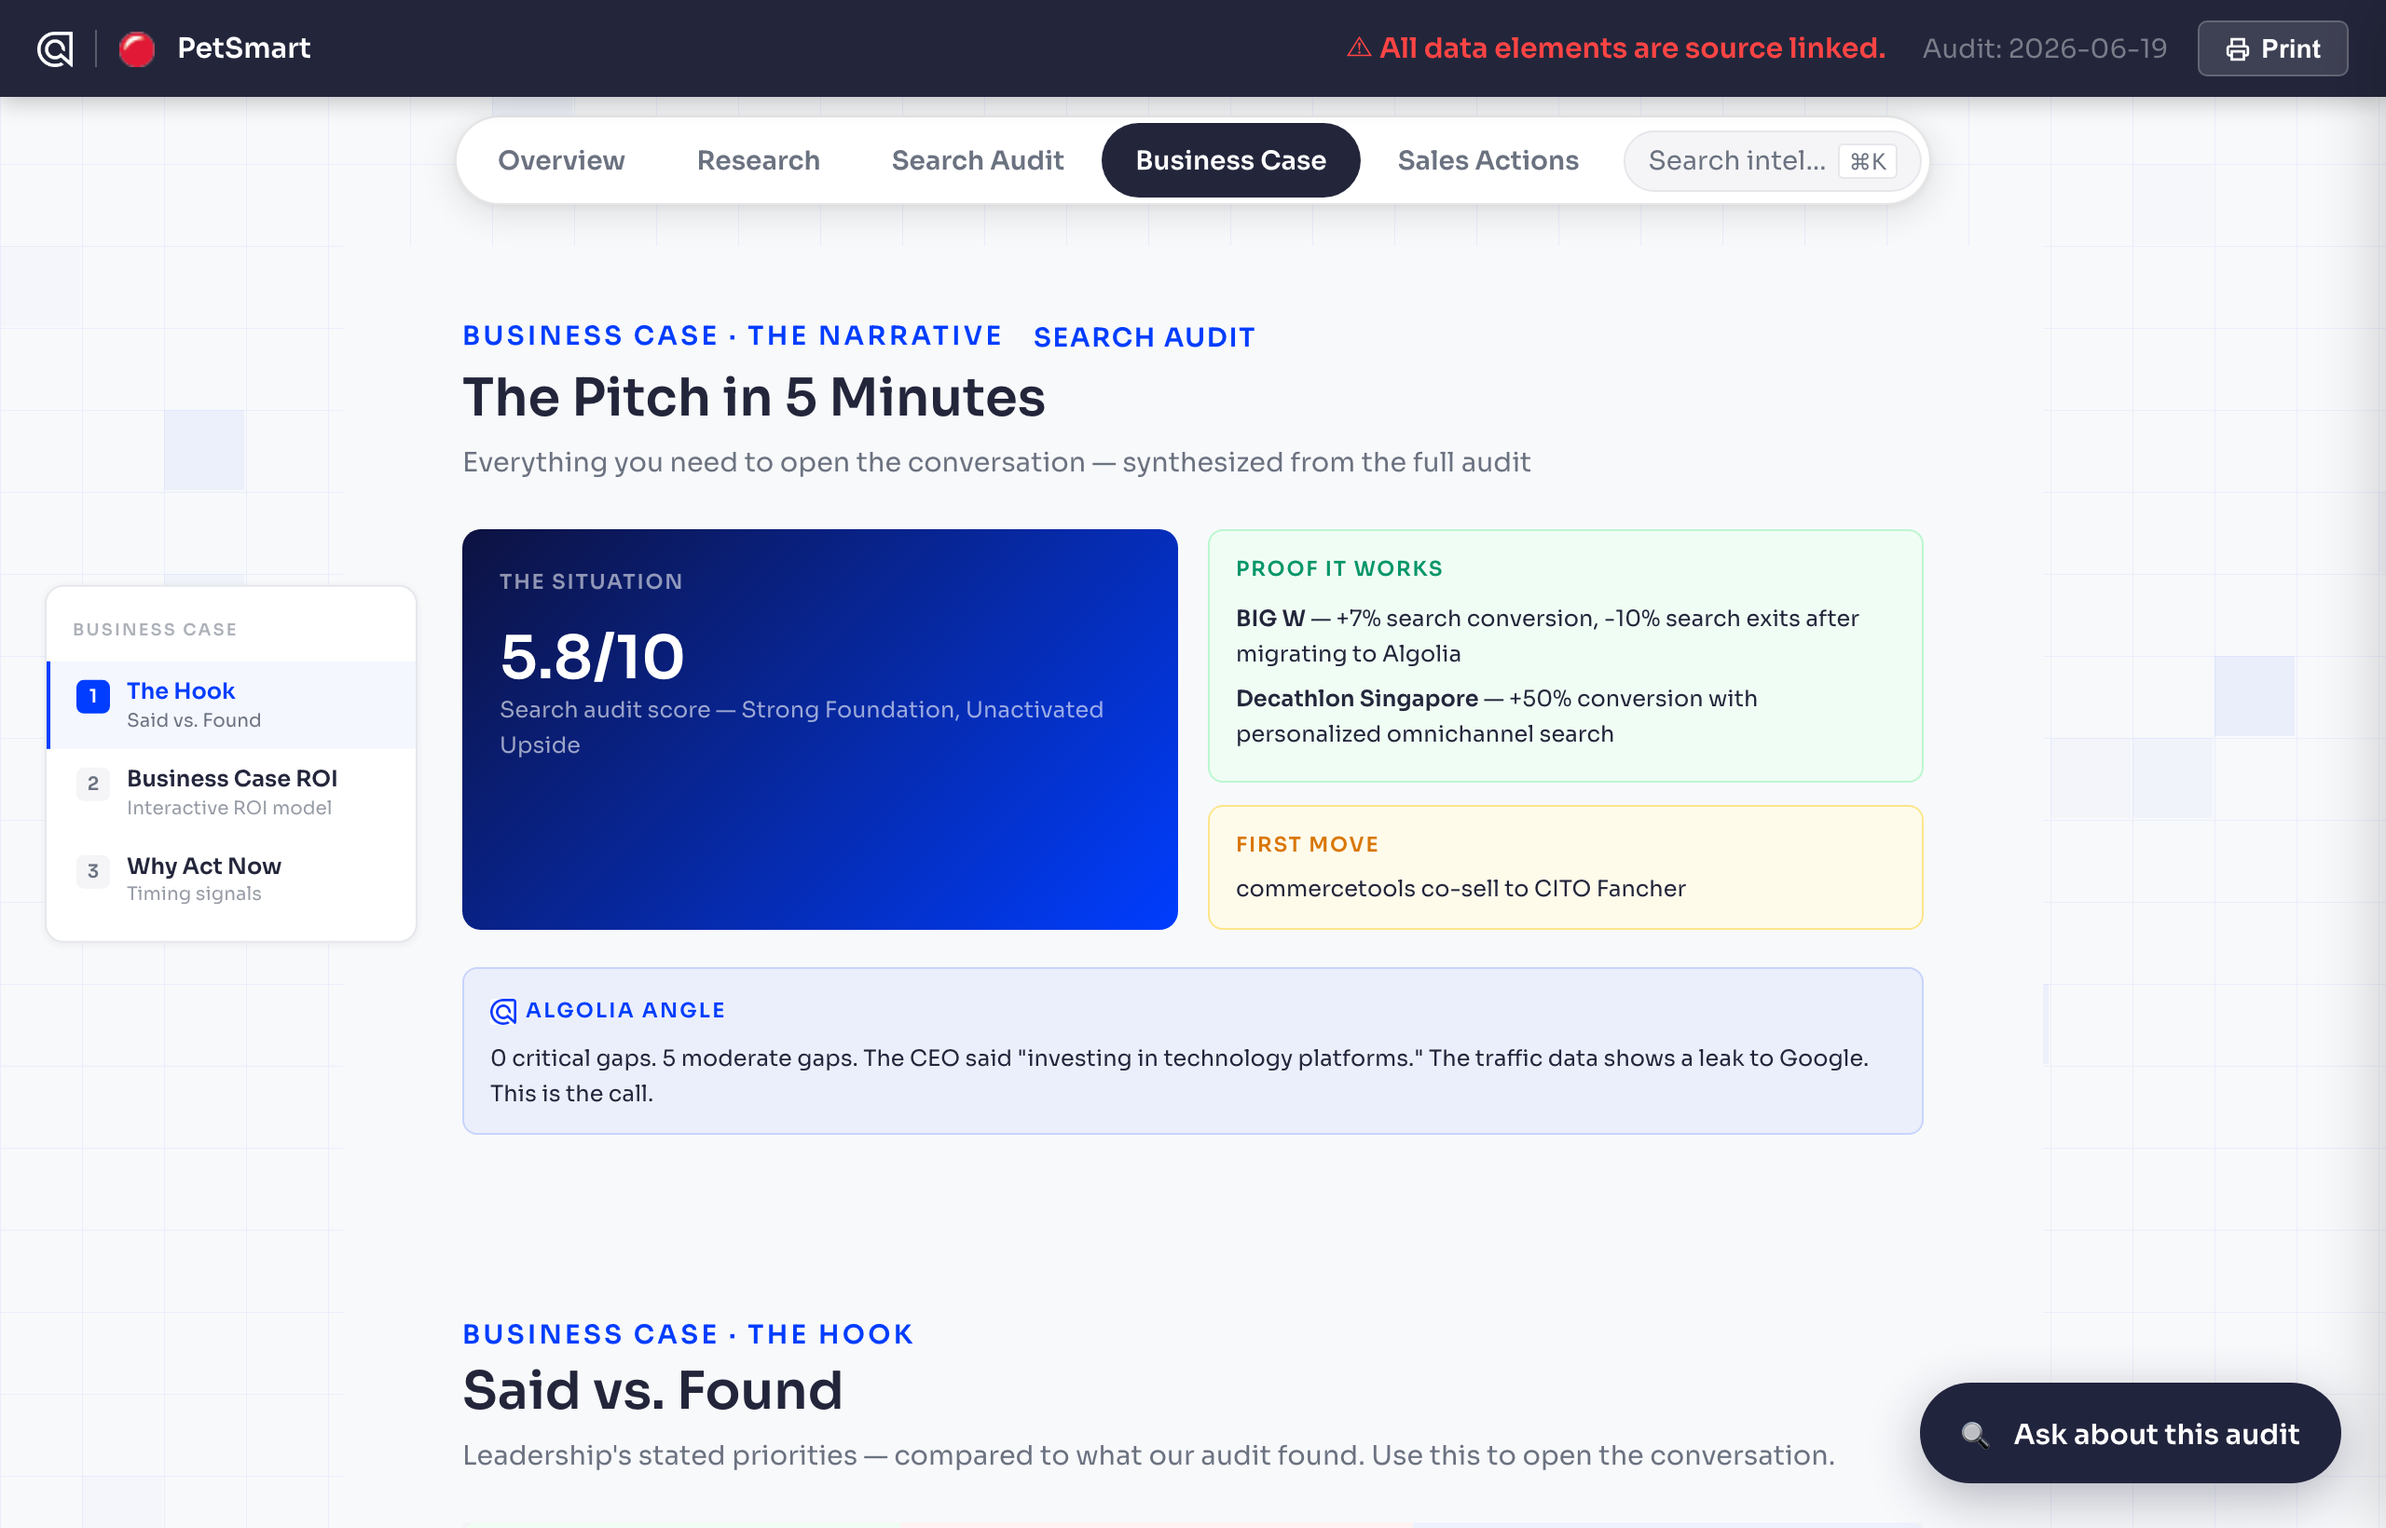
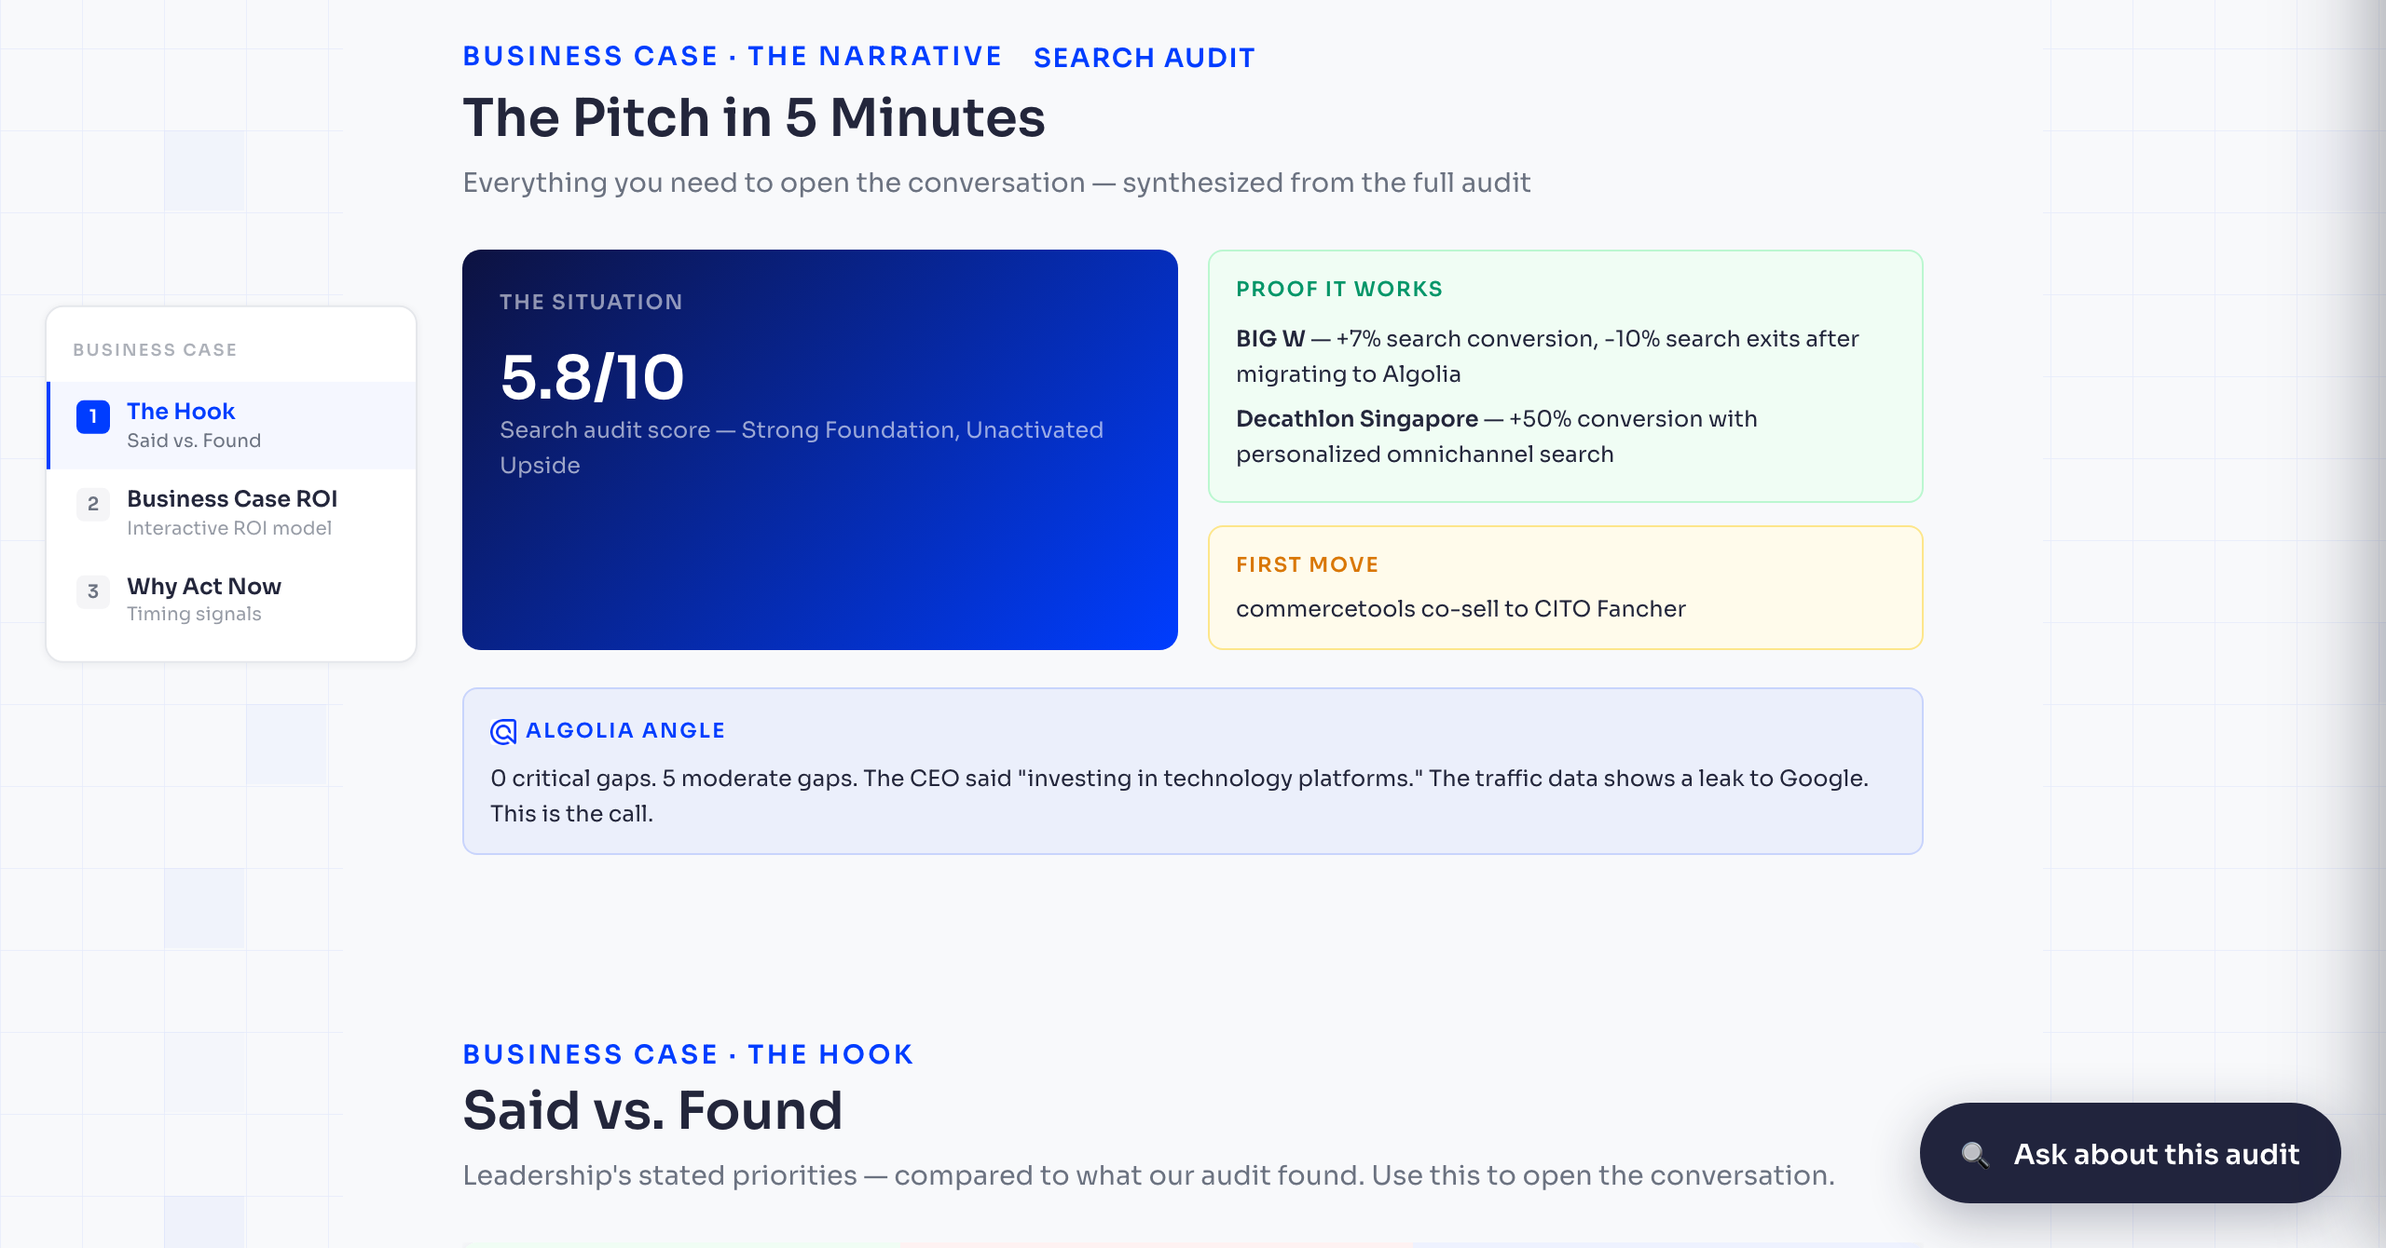
fix(about): crop tour screenshots below the audit nav — kills the duplicate tab bar (tour pill tabs are the only control)

diff --git a/index.html b/index.html
@@ -111,7 +111,7 @@ section { position: relative; }
   border: 1px solid var(--border); border-radius: 30px; padding: 9px 18px; cursor: pointer; box-shadow: var(--shadow); transition: transform 0.18s, color 0.18s, background 0.18s; }
 .tour-tab:hover { color: var(--gray); transform: translateY(-1px); }
 .tour-tab.is-active { background: linear-gradient(135deg, var(--blue), var(--purple)); color: #fff; border-color: transparent; box-shadow: 0 8px 20px rgba(0,61,255,0.28); }
-.tour-stage { position: relative; aspect-ratio: 1280 / 820; border-radius: 16px; overflow: hidden; border: 1px solid var(--border); box-shadow: var(--shadow-lg); background: #fff; }
+.tour-stage { position: relative; aspect-ratio: 1280 / 670; border-radius: 16px; overflow: hidden; border: 1px solid var(--border); box-shadow: var(--shadow-lg); background: #fff; }
 .tour-img { position: absolute; inset: 0; width: 100%; height: 100%; object-fit: cover; object-position: top center; opacity: 0; transition: opacity 0.6s ease; }
 .tour-img.is-active { opacity: 1; }
 
